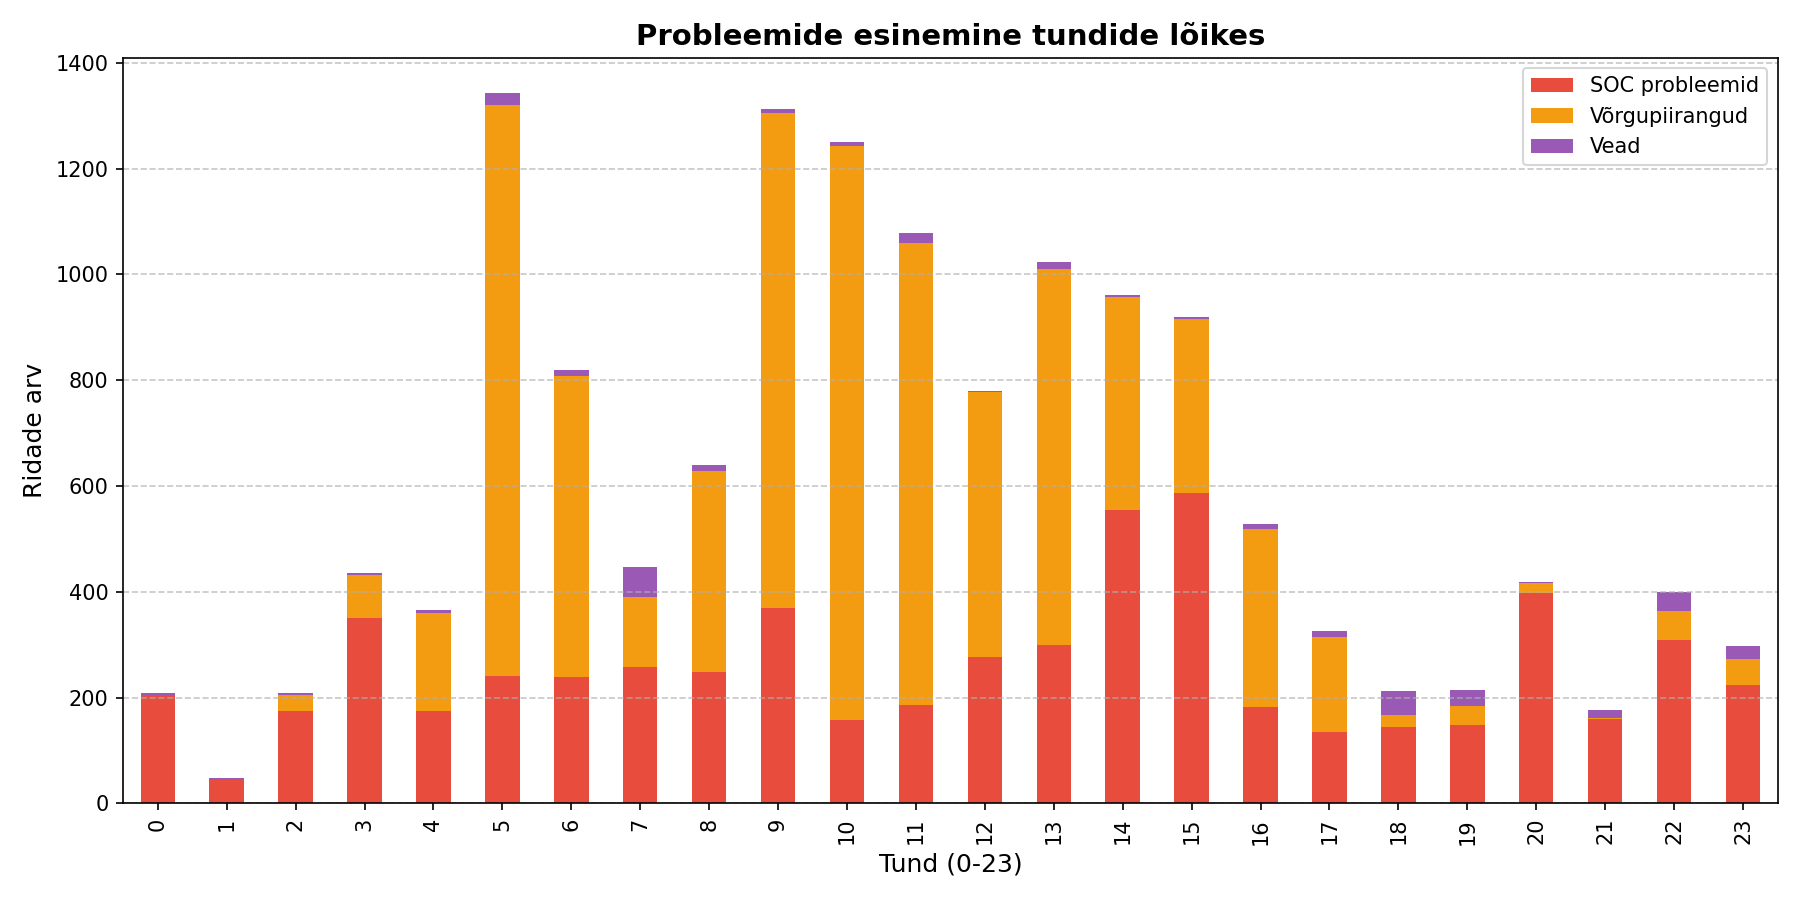
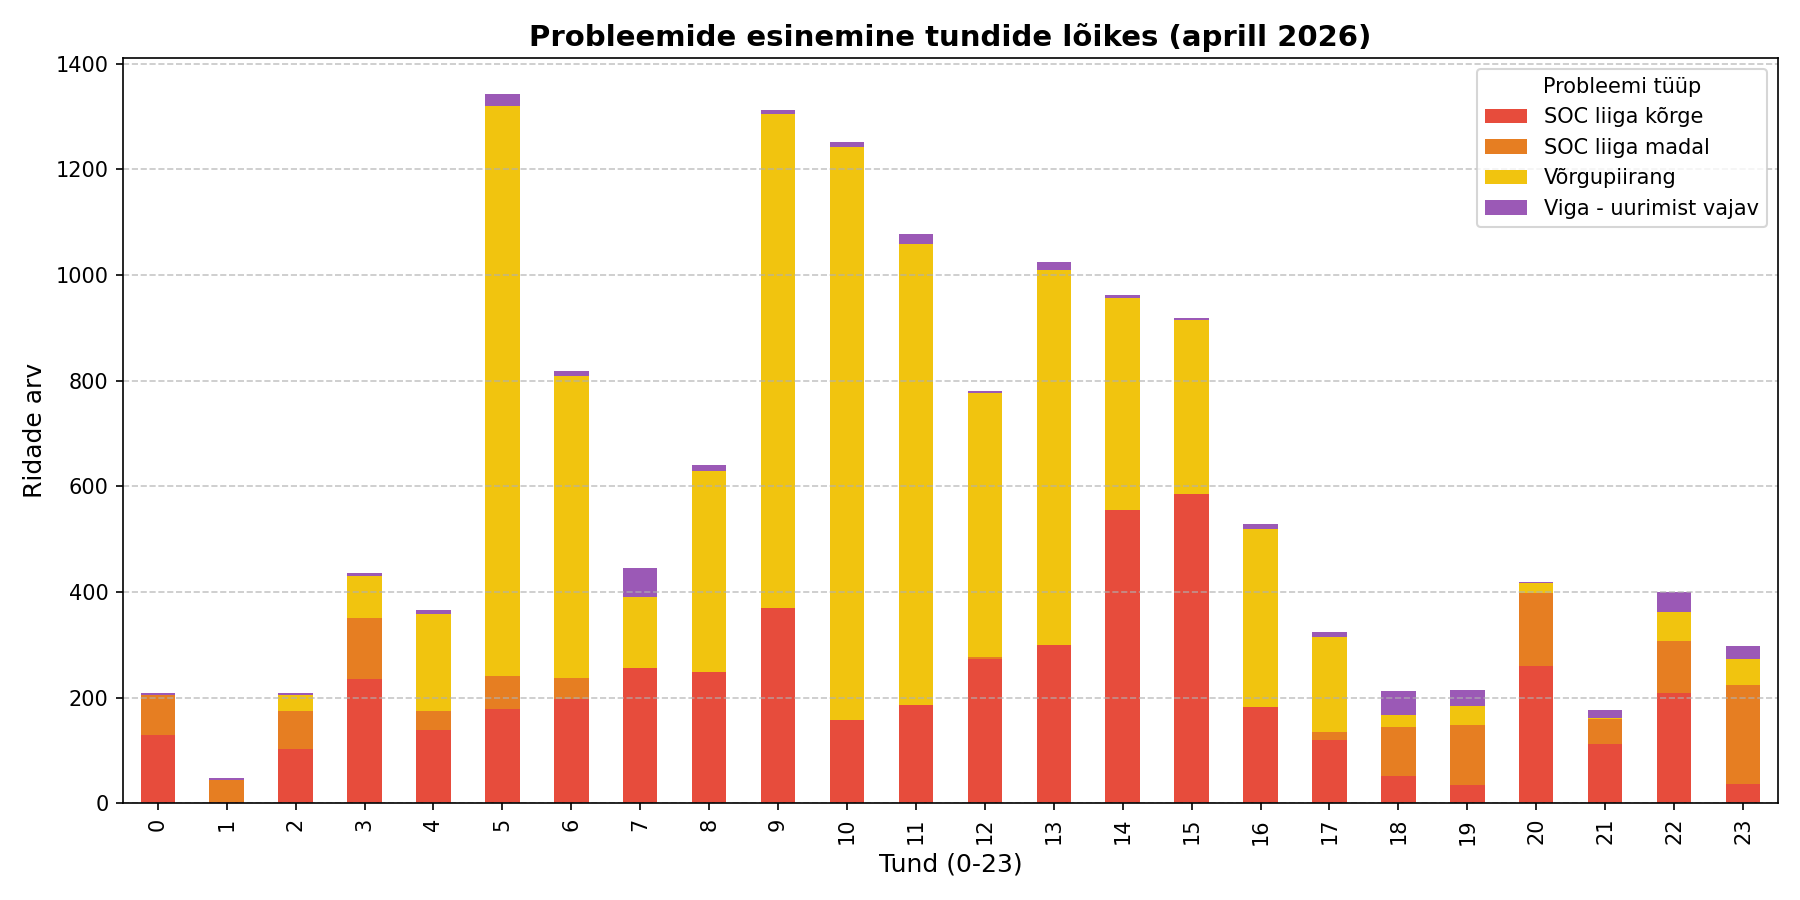
Streamline summary outputs and charts to 4 core errors

diff --git a/analyze_telemetry.py b/analyze_telemetry.py
@@ -6,12 +6,11 @@ import matplotlib.pyplot as plt
 
 def main():
     csv_path = '/Users/user/Downloads/raw_telemetry_2ccf67f82f80_combined.csv'
-    output_excel = '/Users/user/Downloads/raw_telemetry_2ccf67f82f80_analyzed.xlsx'
     
-    # CSV Outputs
-    output_csv_detail = '/Users/user/Downloads/raw_telemetry_2ccf67f82f80_analyzed.csv'
+    # Summary CSV Outputs
     output_csv_summary = '/Users/user/Downloads/raw_telemetry_2ccf67f82f80_summary.csv'
-    output_csv_all_errors = '/Users/user/Downloads/raw_telemetry_2ccf67f82f80_all_errors.csv'
+    output_csv_stats = '/Users/user/Downloads/raw_telemetry_2ccf67f82f80_summary_stats.csv'
+    output_csv_reasons = '/Users/user/Downloads/raw_telemetry_2ccf67f82f80_summary_reasons.csv'
     
     # Separate CSV files for each specific problem category
     output_csv_soc_korge = '/Users/user/Downloads/raw_telemetry_2ccf67f82f80_soc_liiga_korge.csv'
@@ -21,7 +20,6 @@ def main():
     output_csv_ootamatu_reageering = '/Users/user/Downloads/raw_telemetry_2ccf67f82f80_ootamatu_reageering.csv'
     output_csv_uurimist_vajav = '/Users/user/Downloads/raw_telemetry_2ccf67f82f80_uurimist_vajav.csv'
 
-    
     print("Loading data...")
     if not os.path.exists(csv_path):
         print(f"Error: {csv_path} does not exist.")
@@ -49,8 +47,8 @@ def main():
     # Priority 6: Osaline täitmine (50% <= Execution % < 95%)
     mask_partial = (df['Täitmise %'] >= 50) & (df['Täitmise %'] < 95)
     df.loc[mask_partial, 'Põhjus'] = "Osaline täitmine"
+    
     # Priority 5: Võrgupiirang (Expected grid power exceeds 50 kW grid connection capacity)
-    # Expected Grid Power = Grid Power + ESS Power - ESS Plan
     expected_grid = df['Grid Power'] + df['ESS Power'] - df['ESS Plan']
     mask_grid = (expected_grid.abs() >= 50) | (df['Grid Power'].abs() >= 50)
     df.loc[mask_grid, 'Põhjus'] = "Võrgupiirang"
@@ -74,17 +72,46 @@ def main():
     mask_ok = df['Täitmise %'] >= 95
     df.loc[mask_ok, 'Põhjus'] = "Käsk täidetud"
 
-    # Clean up temporary datetime column
+    # Save datetime column for plotting later before cleanup
+    time_dt_series = df['Time_dt']
     df = df.drop(columns=['Time_dt'])
     
     # Reorder columns
     cols = ['Time', 'ESS SoC', 'ESS Plan', 'PV Power', 'ESS Power', 'Grid Power', 'Täitmise %', 'Põhjus', 'Tund']
     df = df[cols]
 
-    # 4. Generate Summary Statistics
+    # --- Write Separate CSV Files (using detailed classifications) ---
+    print("Writing separate CSV files for each category...")
+    
+    df[df['Põhjus'] == 'SOC liiga kõrge'].sort_values('Time').to_csv(output_csv_soc_korge, index=False)
+    df[df['Põhjus'] == 'SOC liiga madal'].sort_values('Time').to_csv(output_csv_soc_madal, index=False)
+    df[df['Põhjus'] == 'Võrgupiirang'].sort_values('Time').to_csv(output_csv_vorgupiirang, index=False)
+    df[df['Põhjus'] == 'Osaline täitmine'].sort_values('Time').to_csv(output_csv_osaline_taitmine, index=False)
+    df[df['Põhjus'] == 'Ootamatu reageering'].sort_values('Time').to_csv(output_csv_ootamatu_reageering, index=False)
+    df[df['Põhjus'] == 'Viga - uurimist vajav'].sort_values('Time').to_csv(output_csv_uurimist_vajav, index=False)
+
+    # --- Map Non-Critical Categories for summaries and charts ---
+    print("Merging non-critical classifications (Osaline täitmine -> Käsk täidetud, Ootamatu reageering -> Käsku ei antud)...")
+    df['Põhjus'] = df['Põhjus'].replace({
+        'Osaline täitmine': 'Käsk täidetud',
+        'Ootamatu reageering': 'Käsku ei antud'
+    })
+
+    # --- Generate Summary Statistics (using mapped reasons) ---
     print("Generating Summary Statistics...")
     total_rows = len(df)
     reason_counts = df['Põhjus'].value_counts()
+    
+    # Ensure all 6 target categories are present in the counts, even if 0
+    target_categories = [
+        'Käsk täidetud',
+        'Käsku ei antud',
+        'SOC liiga kõrge',
+        'SOC liiga madal',
+        'Võrgupiirang',
+        'Viga - uurimist vajav'
+    ]
+    reason_counts = reason_counts.reindex(target_categories, fill_value=0)
     reason_pct = (reason_counts / total_rows) * 100
     
     summary_df = pd.DataFrame({
@@ -109,98 +136,30 @@ def main():
         ]
     })
 
-    # 5. Hourly Analysis
+    # --- Hourly Analysis (using mapped reasons) ---
     print("Generating Hourly Analysis...")
     hourly_groups = df.groupby('Tund')
     
     hourly_df = pd.DataFrame(index=range(24))
     hourly_df.index.name = 'Tund'
     
-    # Fix pandas future deprecation warnings by selecting specific column
     hourly_df['Käskude arv'] = hourly_groups['ESS Plan'].apply(lambda s: (s != 0).sum())
     hourly_df['Keskmine täitmise %'] = hourly_groups['Täitmise %'].mean()
     
-    hourly_df['SOC probleemid'] = hourly_groups['Põhjus'].apply(
-        lambda s: s.str.startswith('SOC liiga').sum()
+    hourly_df['SOC liiga kõrge'] = hourly_groups['Põhjus'].apply(
+        lambda s: (s == 'SOC liiga kõrge').sum()
     )
-    hourly_df['Võrgupiirangud'] = hourly_groups['Põhjus'].apply(
+    hourly_df['SOC liiga madal'] = hourly_groups['Põhjus'].apply(
+        lambda s: (s == 'SOC liiga madal').sum()
+    )
+    hourly_df['Võrgupiirang'] = hourly_groups['Põhjus'].apply(
         lambda s: (s == 'Võrgupiirang').sum()
     )
-    hourly_df['Vead'] = hourly_groups['Põhjus'].apply(
+    hourly_df['Viga - uurimist vajav'] = hourly_groups['Põhjus'].apply(
         lambda s: (s == 'Viga - uurimist vajav').sum()
     )
 
-    # 6. Filter and Export Errors
-    print("Filtering errors...")
-    errors_df = df[df['Põhjus'] == 'Viga - uurimist vajav'].sort_values('Time')
-    print(f"Found {len(errors_df)} error rows.")
-    
-    all_errors_list = [
-        "SOC liiga kõrge",
-        "SOC liiga madal",
-        "Võrgupiirang",
-        "Viga - uurimist vajav"
-    ]
-    all_errors_df = df[df['Põhjus'].isin(all_errors_list)].sort_values('Time')
-    print(f"Found {len(all_errors_df)} total rows matching requested error categories.")
-
-    # 7. Write to Excel using openpyxl
-    print(f"Writing to Excel file: {output_excel}...")
-    with pd.ExcelWriter(output_excel, engine='openpyxl') as writer:
-        df.to_excel(writer, sheet_name='Õige SOC', index=False)
-        stats_df.to_excel(writer, sheet_name='Kokkuvõte', startrow=0, index=False)
-        
-        workbook = writer.book
-        worksheet = writer.sheets['Kokkuvõte']
-        worksheet.cell(row=6, column=1, value="Põhjuste jaotus:")
-        summary_df.to_excel(writer, sheet_name='Kokkuvõte', startrow=6, index=True)
-        
-        worksheet.cell(row=18, column=1, value="Tunnipõhine analüüs:")
-        hourly_df.reset_index().to_excel(writer, sheet_name='Kokkuvõte', startrow=18, index=False)
-        errors_df.to_excel(writer, sheet_name='Vead', index=False)
-        
-    # Cleanup old confusing CSV files if they exist
-    old_files = [
-        '/Users/user/Downloads/raw_telemetry_2ccf67f82f80_errors.csv',
-        '/Users/user/Downloads/raw_telemetry_2ccf67f82f80_soc_high.csv',
-        '/Users/user/Downloads/raw_telemetry_2ccf67f82f80_soc_low.csv',
-        '/Users/user/Downloads/raw_telemetry_2ccf67f82f80_grid_limits.csv',
-        '/Users/user/Downloads/raw_telemetry_2ccf67f82f80_partial.csv',
-        '/Users/user/Downloads/raw_telemetry_2ccf67f82f80_unexpected.csv'
-    ]
-    for old_file in old_files:
-        if os.path.exists(old_file):
-            try:
-                os.remove(old_file)
-                print(f"Removed old file: {old_file}")
-            except Exception as e:
-                print(f"Failed to remove {old_file}: {e}")
-
-    # 8. Write to CSV files for easy local viewing on Macbook
-    print(f"Writing detailed output to CSV: {output_csv_detail}...")
-    df.to_csv(output_csv_detail, index=False)
-    
-    print(f"Writing unexplained errors ('Viga - uurimist vajav') to CSV: {output_csv_uurimist_vajav}...")
-    errors_df.to_csv(output_csv_uurimist_vajav, index=False)
-    
-    print(f"Writing 'SOC liiga kõrge' errors to CSV: {output_csv_soc_korge}...")
-    df[df['Põhjus'] == 'SOC liiga kõrge'].sort_values('Time').to_csv(output_csv_soc_korge, index=False)
-    
-    print(f"Writing 'SOC liiga madal' errors to CSV: {output_csv_soc_madal}...")
-    df[df['Põhjus'] == 'SOC liiga madal'].sort_values('Time').to_csv(output_csv_soc_madal, index=False)
-    
-    print(f"Writing 'Võrgupiirang' errors to CSV: {output_csv_vorgupiirang}...")
-    df[df['Põhjus'] == 'Võrgupiirang'].sort_values('Time').to_csv(output_csv_vorgupiirang, index=False)
-    
-    print(f"Writing 'Osaline täitmine' errors to CSV: {output_csv_osaline_taitmine}...")
-    df[df['Põhjus'] == 'Osaline täitmine'].sort_values('Time').to_csv(output_csv_osaline_taitmine, index=False)
-    
-    print(f"Writing 'Ootamatu reageering' errors to CSV: {output_csv_ootamatu_reageering}...")
-    df[df['Põhjus'] == 'Ootamatu reageering'].sort_values('Time').to_csv(output_csv_ootamatu_reageering, index=False)
-    
-    print(f"Writing all requested errors combined to CSV: {output_csv_all_errors}...")
-    all_errors_df.to_csv(output_csv_all_errors, index=False)
-    
+    # --- Write Outputs to Downloads ---
     print(f"Writing combined summary to CSV: {output_csv_summary}...")
     with open(output_csv_summary, 'w', encoding='utf-8') as f:
         f.write("KOKKUVÕTE NÄITAJAD\n")
@@ -210,21 +169,42 @@ def main():
         f.write("\nTUNNIPÕHINE ANALÜÜS\n")
         hourly_df.reset_index().to_csv(f, index=False)
         
-    # Also write separate clean CSVs for easy importing into Numbers/Excel on MacBook
-    stats_df.to_csv('/Users/user/Downloads/raw_telemetry_2ccf67f82f80_summary_stats.csv', index=False)
-    summary_df.to_csv('/Users/user/Downloads/raw_telemetry_2ccf67f82f80_summary_reasons.csv', index=True)
-    hourly_df.reset_index().to_csv('/Users/user/Downloads/raw_telemetry_2ccf67f82f80_summary_hourly.csv', index=False)
+    print(f"Writing stats to CSV: {output_csv_stats}...")
+    stats_df.to_csv(output_csv_stats, index=False)
+    
+    print(f"Writing reasons to CSV: {output_csv_reasons}...")
+    summary_df.to_csv(output_csv_reasons, index=True)
 
-    print("Excel and CSV files created successfully.")
+    # --- Clean up obsolete files ---
+    obsolete_files = [
+        '/Users/user/Downloads/raw_telemetry_2ccf67f82f80_analyzed.xlsx',
+        '/Users/user/Downloads/raw_telemetry_2ccf67f82f80_analyzed.csv',
+        '/Users/user/Downloads/raw_telemetry_2ccf67f82f80_all_errors.csv',
+        '/Users/user/Downloads/raw_telemetry_2ccf67f82f80_summary_hourly.csv',
+        '/Users/user/Downloads/raw_telemetry_2ccf67f82f80_errors.csv',
+        '/Users/user/Downloads/raw_telemetry_2ccf67f82f80_soc_high.csv',
+        '/Users/user/Downloads/raw_telemetry_2ccf67f82f80_soc_low.csv',
+        '/Users/user/Downloads/raw_telemetry_2ccf67f82f80_grid_limits.csv',
+        '/Users/user/Downloads/raw_telemetry_2ccf67f82f80_partial.csv',
+        '/Users/user/Downloads/raw_telemetry_2ccf67f82f80_unexpected.csv'
+    ]
+    for obs_file in obsolete_files:
+        if os.path.exists(obs_file):
+            try:
+                os.remove(obs_file)
+                print(f"Removed obsolete file: {obs_file}")
+            except Exception as e:
+                print(f"Failed to remove {obs_file}: {e}")
 
-    # 9. Visualizations
+    # --- Generate Visualizations ---
     print("Generating visualizations...")
     charts_dir = '/Users/user/.gemini/antigravity-ide/scratch'
     os.makedirs(charts_dir, exist_ok=True)
     
-    # Pie Chart
+    # 1. Pie Chart of reason distribution
     plt.figure(figsize=(10, 8))
-    reason_counts.plot(kind='pie', autopct='%1.1f%%', startangle=140, colors=plt.cm.Paired(np.linspace(0, 1, len(reason_counts))))
+    colors = ['#2ecc71', '#95a5a6', '#e74c3c', '#e67e22', '#f1c40f', '#9b59b6']
+    reason_counts.plot(kind='pie', autopct='%1.1f%%', startangle=140, colors=colors)
     plt.title('Põhjuste jaotus (aprill 2026)', fontsize=14, fontweight='bold')
     plt.ylabel('')
     plt.tight_layout()
@@ -232,21 +212,27 @@ def main():
     plt.savefig(pie_path, dpi=150)
     plt.close()
     
-    # Bar Chart
+    # 2. Bar Chart of problems by hour
     plt.figure(figsize=(12, 6))
-    hourly_problems = hourly_df[['SOC probleemid', 'Võrgupiirangud', 'Vead']]
-    hourly_problems.plot(kind='bar', stacked=True, color=['#e74c3c', '#f39c12', '#9b59b6'], ax=plt.gca())
-    plt.title('Probleemide esinemine tundide lõikes', fontsize=14, fontweight='bold')
+    hourly_problems = hourly_df[['SOC liiga kõrge', 'SOC liiga madal', 'Võrgupiirang', 'Viga - uurimist vajav']]
+    hourly_problems.plot(
+        kind='bar', 
+        stacked=True, 
+        color=['#e74c3c', '#e67e22', '#f1c40f', '#9b59b6'], 
+        ax=plt.gca()
+    )
+    plt.title('Probleemide esinemine tundide lõikes (aprill 2026)', fontsize=14, fontweight='bold')
     plt.xlabel('Tund (0-23)', fontsize=12)
     plt.ylabel('Ridade arv', fontsize=12)
     plt.grid(axis='y', linestyle='--', alpha=0.7)
+    plt.legend(title='Probleemi tüüp')
     plt.tight_layout()
     bar_path = os.path.join(charts_dir, 'problems_by_hour.png')
     plt.savefig(bar_path, dpi=150)
     plt.close()
 
-    # Timeline Chart
-    df['Time_dt'] = pd.to_datetime(df['Time'])
+    # 3. Timeline Chart
+    df['Time_dt'] = time_dt_series
     hourly_ts = df.set_index('Time_dt').resample('h')['Täitmise %'].mean()
     
     plt.figure(figsize=(14, 6))
